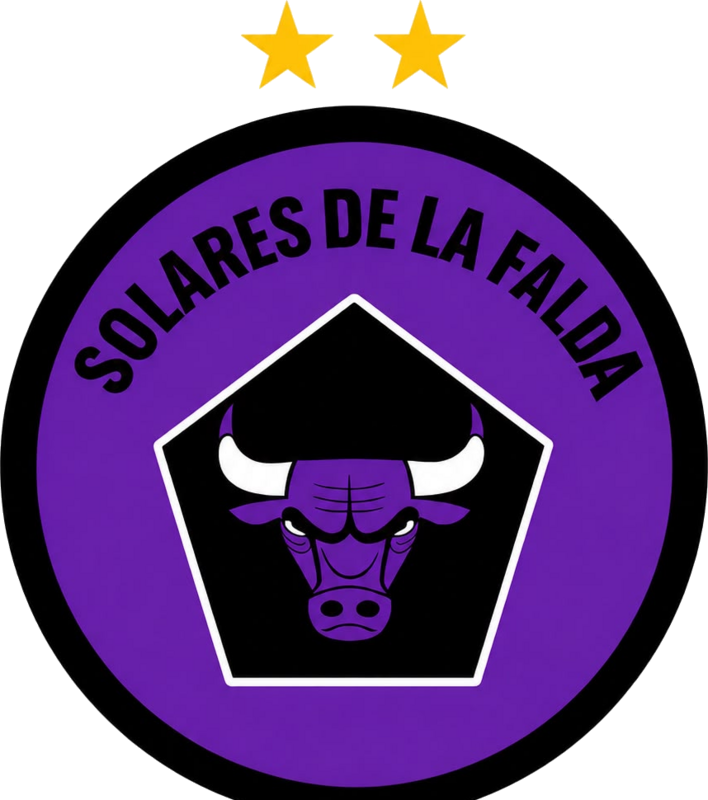
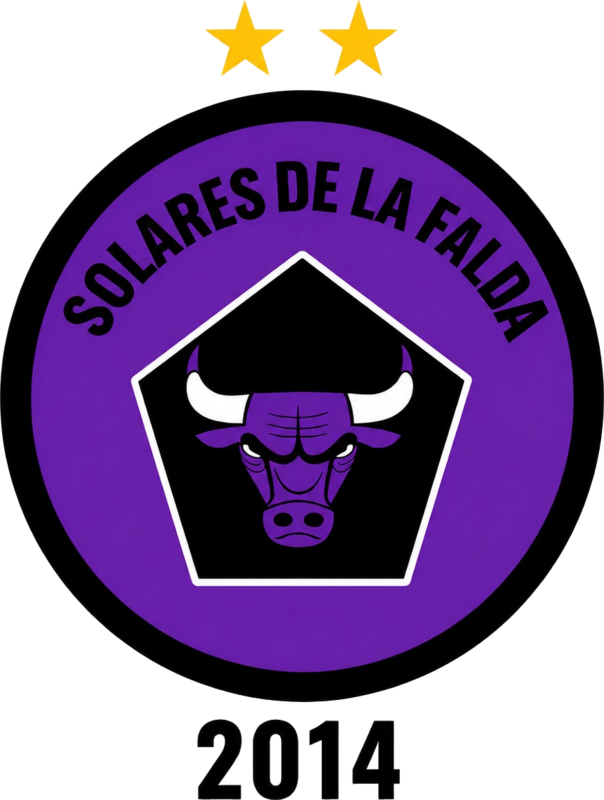
fix(crests): keep 2014 on escudo 4 with transparent digit counters

diff --git a/src/data/crests.ts b/src/data/crests.ts
@@ -56,9 +56,9 @@ export const crests: readonly Crest[] = [
     image: {
       src: crest4Png,
       webp: crest4Webp,
-      width: 708,
+      width: 604,
       height: 800,
-      alt: 'Escudo circular violeta de Solares de la Falda con una cabeza de toro y dos estrellas.',
+      alt: 'Escudo circular violeta de Solares de la Falda con dos estrellas y el año 2014.',
     },
   },
   {
